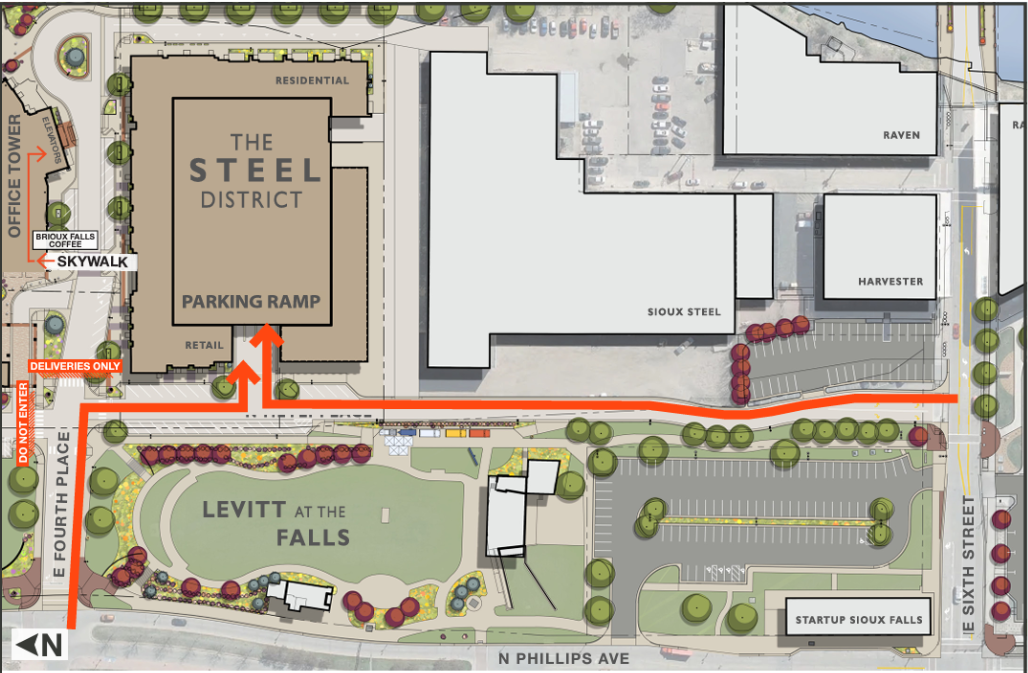
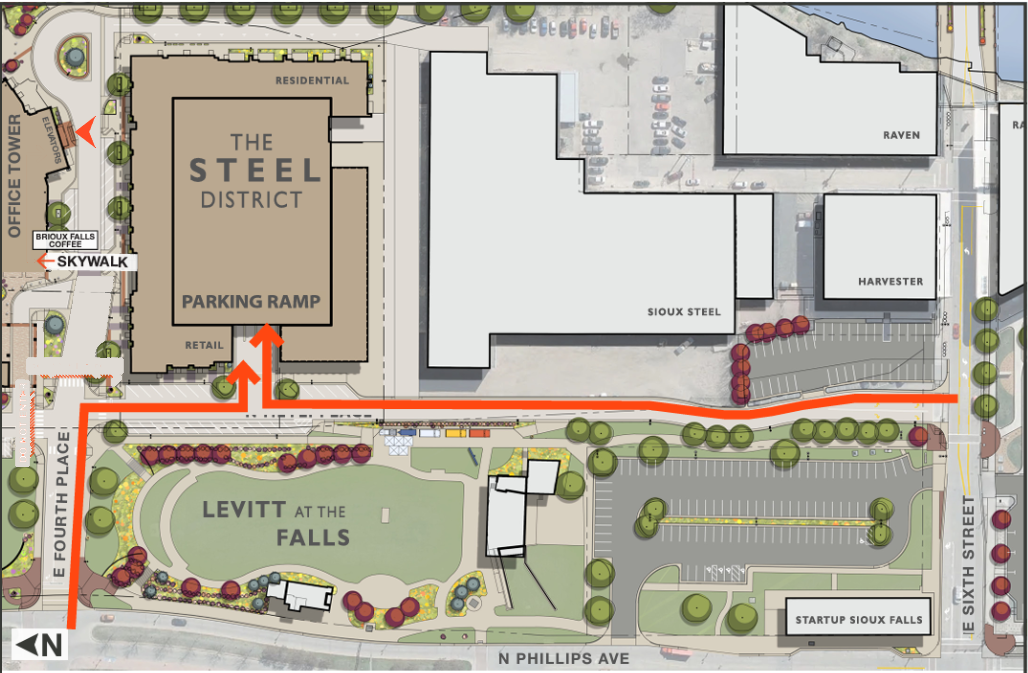
update dripos order page
- update directions

Changed region(s): [[0.0, 0.5305, 0.1245, 0.7177], [0.0623, 0.1872, 0.0934, 0.2184], [0.0311, 0.2184, 0.0623, 0.2496]]

diff --git a/pages/directions.jsx b/pages/directions.jsx
@@ -64,11 +64,8 @@ const Directions = () => {
               of the parking ramp. Stay to the right while entering the parking ramp and proceed
               up the ramp and to the right.
             </p>
-            <h5>
-              Please only park on levels 2, 3 & 4
-            </h5>
             <p>
-              Skywalk access is located on Level 3 of the parking ramp. Use the Skywalk access to enter
+              Skywalk access is located on Level 2 of the parking ramp. Use the Skywalk access to enter
               the Office tower.
             </p>
           </div>
@@ -92,7 +89,7 @@ const Directions = () => {
               Enter The Steel District off E 4th Place north of the parking ramp (Identified as
               "Deliveries Only" in the map, construction may be in progress in the area). Enter
               through the first door after the bricks/retail strip on the right to gain access
-              to the parking garage. Take stairs or elevator to 3rd floor of parking garage.
+              to the parking garage. Take stairs or elevator to 2nd floor of parking garage.
               Go out into the parking garage and use the Skywalk access to enter the Office tower.
             </p>
             <h5>

diff --git a/src/layouts/Header.js b/src/layouts/Header.js
@@ -84,7 +84,7 @@ const Header = () => {
                   <Link href="menu-coffee">Menu</Link>
                 </li>
                 <li>
-                  <a href="https://brioux-falls.square.site/" target="_blank">Order Now</a>
+                  <a href="https://order.dripos.com/Brioux-Falls" target="_blank">Order Now</a>
                 </li>
                 <li>
                   <Link href="contacts">Contact</Link>
@@ -122,7 +122,7 @@ const Header = () => {
               <Link href="menu-coffee">Menu</Link>
             </li>
             <li>
-              <a href="https://brioux-falls.square.site/" target="_blank">Order Now</a>
+              <a href="https://order.dripos.com/Brioux-Falls" target="_blank">Order Now</a>
             </li>
             <li>
               <Link href="contacts">Contact</Link>

diff --git a/pages/menu-coffee.jsx b/pages/menu-coffee.jsx
@@ -52,7 +52,7 @@ const MenuCoffee = () => {
             </div>
             <div className="col-xs-12 col-sm-12 col-md-12 col-lg-4 align-self-center align-right">
               <Link
-                href="https://brioux-falls.square.site/"
+                href="https://order.dripos.com/Brioux-Falls"
                 className="kf-btn element-anim-1 scroll-animate"
                 data-animate="active"
                 target="_blank"

diff --git a/pages/about.jsx b/pages/about.jsx
@@ -170,7 +170,7 @@ const About = () => {
             </div>
             <div className="col-xs-12 col-sm-12 col-md-12 col-lg-4 align-self-center align-right">
               <Link
-                href="https://brioux-falls.square.site/"
+                href="https://order.dripos.com/Brioux-Falls"
                 className="kf-btn element-anim-1 scroll-animate"
                 data-animate="active"
                 target="_blank"

diff --git a/pages/index.jsx b/pages/index.jsx
@@ -268,7 +268,7 @@ const Index = () => {
             </div>
             <div className="col-xs-12 col-sm-12 col-md-12 col-lg-4 align-self-center align-right">
               <Link
-                href="https://brioux-falls.square.site/"
+                href="https://order.dripos.com/Brioux-Falls"
                 className="kf-btn element-anim-1 scroll-animate"
                 data-animate="active"
                 target="_blank"
